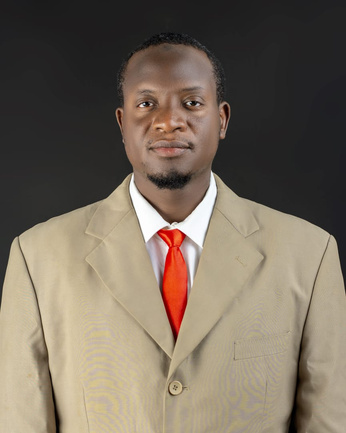
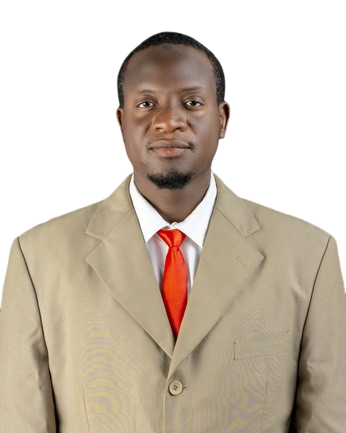
#

diff --git a/index.html b/index.html
@@ -342,9 +342,15 @@
         <h2>Our Team</h2>
         <div class="team-container">
             <div class="team-member">
-                <img src="Images/Dr-nuru.png" alt="Member 1">
+                <img src="Images/Dr-nuruu.png" alt="Member 1">
                 <h5>Dr. Nurudeen Adam Jallo</h5>
                 <p>CEO</p>
+            </div>
+
+            <div class="team-member">
+                <img src="Images/abdul.png" alt="Member 2">
+                <h5>Engr. Abdulaziz Ibrahim Sani</h5>
+                <p>COO</p>
             </div>
 
             <div class="team-member">
@@ -395,7 +401,7 @@
           </div>
           <div class="phone">
             <i class="fa-solid fa-phone"></i>
-            <a href="tel:+2347086461342">07086461342</a>
+            <a href="tel:+491787241749">+49 178 7241749</a>
           </div>
           <div class="email">
             <i class="fa-solid fa-envelope"></i>

diff --git a/styles.css b/styles.css
@@ -523,7 +523,7 @@ nav a:focus {
     border-radius: 50%;
     width: 100px;
     height: 100px;
-    object-fit: cover;
+    object-fit: contain;
     
 }
 
